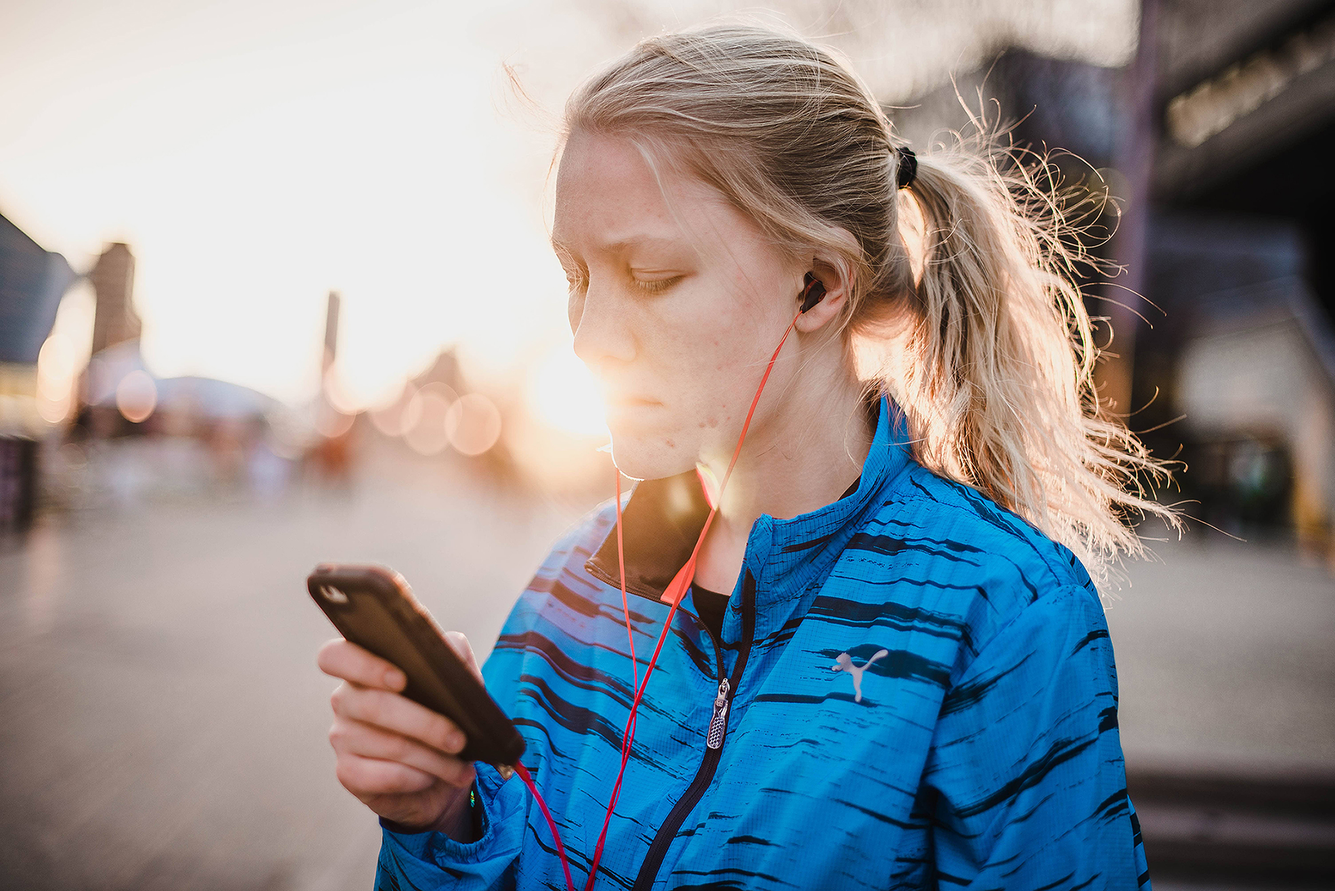
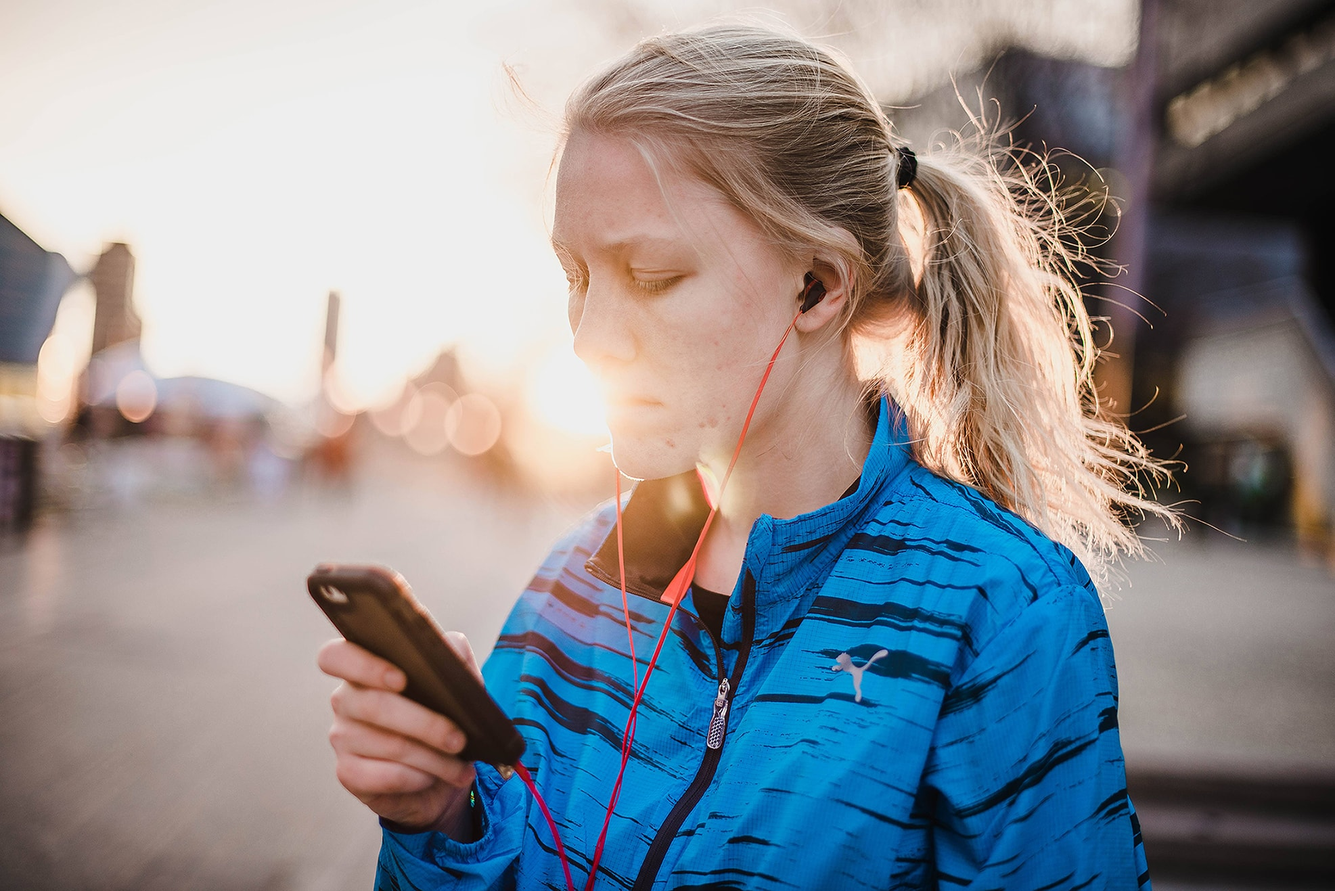
compress

diff --git a/index.css b/index.css
@@ -210,7 +210,7 @@ body, html {
     }
     
     #coordinaid .parallax5{
-    background-image: url(./img/sent.png);
+    background-image: url(./img/sent.jpg);
     }
 
     #bluffs .parallax4{
@@ -395,7 +395,7 @@ body, html {
     }
     
     #coordinaid .parallax5{
-    background-image: url(./img/sent.png);
+    background-image: url(./img/sent.jpg);
     }
 
     #bluffs .parallax4{
@@ -589,7 +589,7 @@ body, html {
     }
     
     #coordinaid .parallax5{
-    background-image: url(./img/sent.png);
+    background-image: url(./img/sent.jpg);
     }
 
     #bluffs .parallax4{
